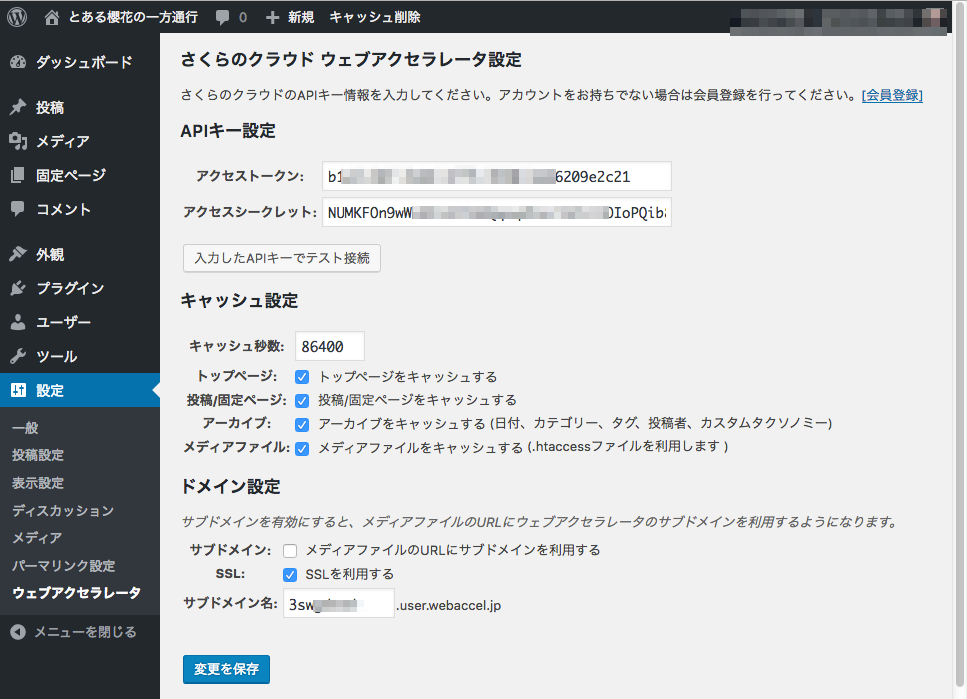
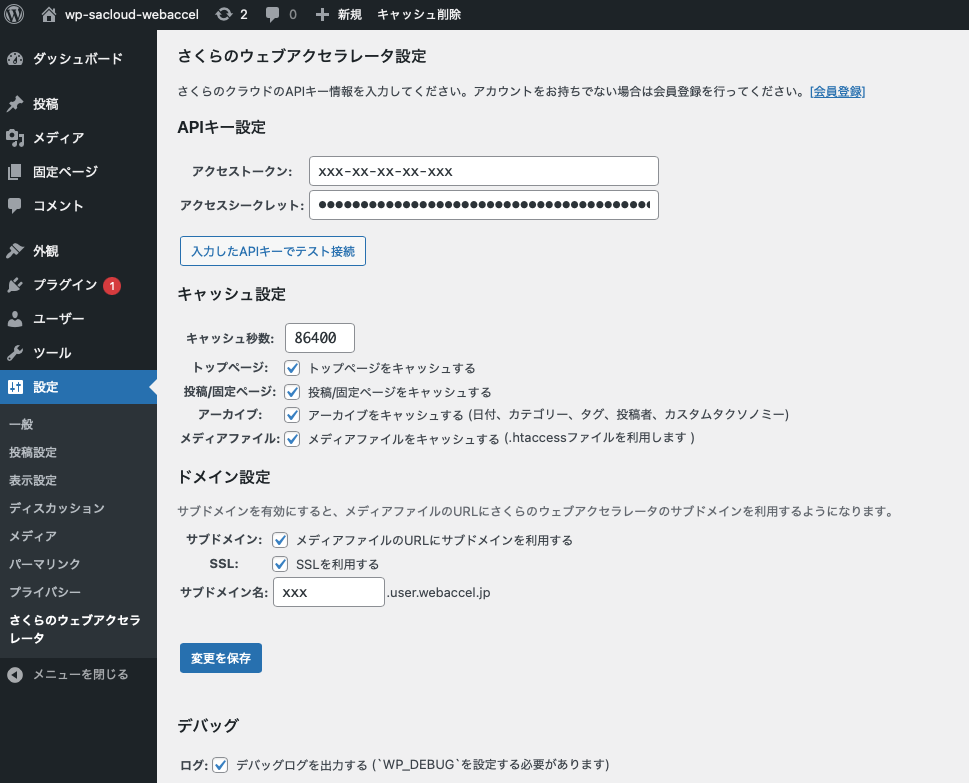
ウェブアクセラレータ -> さくらのウェブアクセラレータ (#56)

Changed region(s): [[0.0, 0.0, 1.0, 1.0], [0.4033, 0.8412, 0.5274, 0.8712]]

diff --git a/wp-sacloud-webaccel.php b/wp-sacloud-webaccel.php
@@ -3,7 +3,7 @@
 /**
  * Plugin Name: wp-sacloud-webaccel
  * Plugin URI: https://github.com/sacloud/wp-sacloud-webaccel
- * Description: WordPressとさくらのクラウド ウェブアクセラレータを連携させるためのプラグイン
+ * Description: WordPressとさくらのウェブアクセラレータを連携させるためのプラグイン
  * Author: Sacloud Users
  * Author URI: https://github.com/sacloud-bot
  * Text Domain: wp-sacloud-webaccel

diff --git a/docs/Settings.md b/docs/Settings.md
@@ -17,11 +17,11 @@
 
 プラグインの動作に必要な、アクセスキーなどの設定を行います。
 
-左のメニューから「設定」、「ウェブアクセラレータ」を選択します。
+左のメニューから「設定」、「さくらのウェブアクセラレータ」を選択します。
 
 ![setting-01.png](images/setting-01.png)
 
-「さくらのクラウド　ウェブアクセラレータ設定」画面が表示されます。必要情報を入力していきます。
+「さくらのウェブアクセラレータ設定」画面が表示されます。必要情報を入力していきます。
 
 ### APIキー
 
@@ -42,7 +42,7 @@
 
 ![test-error-01.png](images/test-error-01.png)
 
-ウェブアクセラレータへのアクセス権が設定されていない場合は以下のようなメッセージになります。
+さくらのウェブアクセラレータへのアクセス権が設定されていない場合は以下のようなメッセージになります。
 この場合、さくらのクラウドコントロールパネルから権限を与えてください。
 
 ![test-error-02.png](images/test-error-02.png)
@@ -51,13 +51,13 @@
 
 ![cache-01.png](images/cache-01.png)
 
-ウェブアクセラレータでのキャッシュについての設定を行います。
+さくらのウェブアクセラレータでのキャッシュについての設定を行います。
 
 ### ドメイン
 
 ![subdomain.png](images/subdomain.png)
 
-サブドメイン型でウェブアクセラレータを利用する場合に設定します。
+サブドメイン型でさくらのウェブアクセラレータを利用する場合に設定します。
 (独自ドメイン型の場合は設定不要です)
 
 

diff --git a/README.md b/README.md
@@ -2,12 +2,12 @@
 
 ![eye-catch.jpg](docs/images/eye-catch.jpg)
 
-WordPressと[さくらのクラウド ウェブアクセラレータ](https://cloud.sakura.ad.jp/specification/web-accelerator/)との連携を行うためのプラグインです。
+WordPressと[さくらのウェブアクセラレータ](https://cloud.sakura.ad.jp/specification/web-accelerator/)との連携を行うためのプラグインです。
 
-ウェブアクセラレータを利用すると、オリジンサーバーへの負荷を最小限にしつつ、
+さくらのウェブアクセラレータを利用すると、オリジンサーバーへの負荷を最小限にしつつ、
 アクセス急増時でも安定してサイトを表示することができます。
 
-このプラグインを利用することで、煩雑な設定を行うことなくウェブアクセラレータが利用できるようになります。
+このプラグインを利用することで、煩雑な設定を行うことなくさくらのウェブアクセラレータが利用できるようになります。
 
 **Note: このリポジトリは[yamamoto-febc/wp-sacloud-webaccel](https://github.com/yamamoto-febc/wp-sacloud-webaccel)から[sacloud/wp-sacloud/webaccel](https://github.com/sacloud/wp-sacloud-webaccel)へ移管されました**
 

diff --git a/docs/README.md b/docs/README.md
@@ -16,7 +16,7 @@ wp-sacloud-webaccelをご利用いただきありがとうございます。
 
 #### [[設定 / Settings]](Settings.md)
 
-> さくらのクラウド ウェブアクセラレータとの連携設定、キャッシュ設定になどについて
+> さくらのウェブアクセラレータとの連携設定、キャッシュ設定になどについて
 
 #### [[その他 / Other]](Other.md)
 
